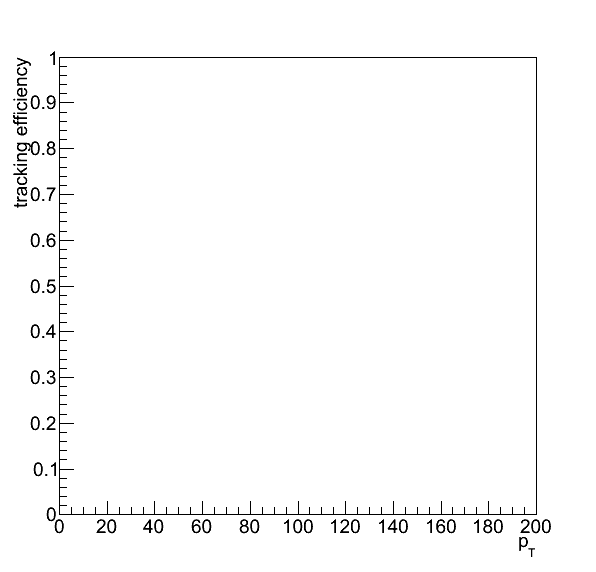
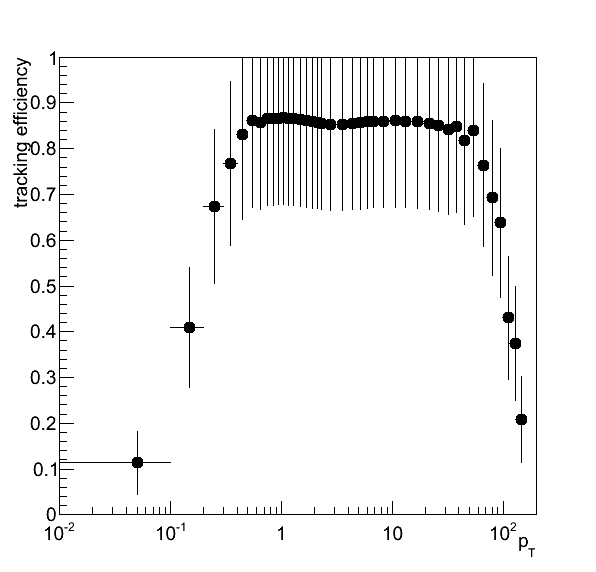
track efficiency

diff --git a/dNchdeta/Correction/calcdNchdeta.C b/dNchdeta/Correction/calcdNchdeta.C
@@ -11,7 +11,7 @@
 #include "SetupTree.h"
 using namespace std;
 THStack* calcNtracks(int);
-THStack* calcwtrack(int);
+TH2F* calcwtrack(int);
 TH1D* calcwevent(int);
 TH1D* calcNevtsel(int);
 void calcdNchdeta(int type=0){ //-1 for genMC, 0 for recoMC, 1 for data
@@ -30,11 +30,7 @@ void calcdNchdeta(int type=0){ //-1 for genMC, 0 for recoMC, 1 for data
 	cout<<"nom = "<<nom[0]<<endl;
 	double fMV = 0.;
 	THStack* SKNtracks = calcNtracks(type);
-	THStack* SKhs = calcwtrack(type);
-        TH2F *hF = (TH2F*)SKhs->GetStack()->At(0);
-        TH2F *hR = (TH2F*)SKhs->GetStack()->At(1);
-        TH2F *heptrack = (TH2F*)SKhs->GetStack()->At(2);
-        TH2F *hwtrack = (TH2F*)SKhs->GetStack()->At(3);
+	TH2F* hwtrack = calcwtrack(type);
 	for(int iMult=0;iMult<nMult;iMult++){
 		TH2F* htemp1 = (TH2F*)SKNtracks->GetStack()->At(iMult);
 		htemp1->Multiply(hwtrack);
@@ -54,9 +50,6 @@ void calcdNchdeta(int type=0){ //-1 for genMC, 0 for recoMC, 1 for data
 	hNtracks->Write();
 	hwevent->Write();
 	nom.Write("nom",TObject::kOverwrite);
-        hF->Write();
-        hR->Write();
-	heptrack->Write();
 	hwtrack->Write();
 	hNevtsel->Write();
 	SKNtracks->Write();
@@ -117,13 +110,14 @@ THStack* calcNtracks(int type){
 	return SKNtracks;
 }
 
-THStack* calcwtrack(int type){
+TH2F* calcwtrack(int type){
 	TH1::SetDefaultSumw2();
 	TString corrname1 = "/home/xuq7/HI/dNchdeta/Correction/trkEff_pp_all_42X_origin.root";
 	TString corrname2 = "/home/xuq7/HI/dNchdeta/Correction/TrackCorrections_HIJING_538_OFFICIAL_Mar24.root";
 	TFile *fcorr1 = TFile::Open(corrname1);
 //	TFile *fcorr2 = TFile::Open(corrname2);
-	THStack* SKhs = new THStack("Stackhs","");
+        TFile *fout = new TFile("trackCorr.root","Recreate");
+        fcorr1->cd();
 	TH2F* rTotalEff3D = (TH2F*)fcorr1->Get("rTotalEff3D");
 	TGraphAsymmErrors* gFakPt = (TGraphAsymmErrors*)fcorr1->Get("gFakPt");
 
@@ -154,11 +148,20 @@ THStack* calcwtrack(int type){
                 hwtrack->SetName("hwtrack");
 		hwtrack->Divide(heptrack);
 	}
-        SKhs->Add(hF);
-        SKhs->Add(hR);
-        SKhs->Add(heptrack);
-        SKhs->Add(hwtrack);
-	return SKhs;
+/*	for(int binx=0;binx<npt;binx++){
+                    for(int biny=0;biny<neta;biny++){
+                        if(binx<10 && biny<10)
+                        cout<<binx<<"\t"<<biny<<"\t"<<hF->GetBinContent(binx,biny)<<"\t"<<hR->GetBinContent(binx,biny)<<"\t"<<heptrack->GetBinContent(binx,biny)<<"\t"<<hwtrack->GetBinContent(binx,biny)<<"\t"<<rTotalEff3D->GetBinContent(binx,biny)<<endl;
+                    }
+        }
+        heptrack->Draw("colz");*/
+        fout->cd();
+        hF->Write();
+        hR->Write();
+        heptrack->Write();
+        hwtrack->Write();
+	return hwtrack;
+        fout->Close();
 
 }
 

diff --git a/dNchdeta/Correction/Drawtrackeff.C b/dNchdeta/Correction/Drawtrackeff.C
@@ -1,12 +1,13 @@
 void Drawtrackeff(){
     gStyle->SetOptStat(kFALSE);
-    TString type="pt";
+    TString type="eta";
     TCanvas *c1 = new TCanvas("c1","c1",600,600);
     TH1D* heff = Draw(type,1,20);
     TH1D* hFrame = new TH1D("","",2030,-3,200);
     hFrame->SetTitle("");
     if(type=="pt"){
-    //    c1->SetLogy();
+        c1->SetLogx();
+   //   c1->SetLogy();
         hFrame->GetXaxis()->SetTitle("p_{T}");
         hFrame->GetXaxis()->SetRangeUser(0,200);
     }
@@ -21,7 +22,7 @@ void Drawtrackeff(){
     leg->SetBorderSize(0);
     leg->SetFillColor(0);
     leg->SetTextSize(0.025);
-    TLine *l = new TLine(c1->GetUxmin(),1,c1->GetUxmax(),1);
+    TLine *l = new TLine(hFrame->GetXaxis()->GetXmin(),1,hFrame->GetXaxis()->GetXmax(),1);
     l->SetLineStyle(2);
     l->SetLineWidth(1.2);
     hFrame->Draw();
@@ -33,12 +34,12 @@ void Drawtrackeff(){
 }
 TH1D* Draw(TString type, int color, int marker){
 
-    TFile *f = new TFile(Form("CorrHijing_recoMC.root"),"ReadOnly");
+    TFile *f = new TFile(Form("trackCorr.root"),"ReadOnly");
     TH2F* heptrack= (TH2F*)f->Get("heptrack");
     if(type=="pt"){
         TH1D* heff = (TH1D*)heptrack->ProjectionX("heff",heptrack->GetYaxis()->FindBin(-2.4),heptrack->GetYaxis()->FindBin(2.4)-1,"i");
-        heff->Draw();
         heff->Scale(1.0/(heptrack->GetYaxis()->FindBin(2.4)-heptrack->GetYaxis()->FindBin(-2.4)));
+        heff->Draw();
         cout<<(heptrack->GetYaxis()->FindBin(2.4)-heptrack->GetYaxis()->FindBin(-2.4))<<endl;
     }
     else if(type=="eta"){
@@ -49,7 +50,7 @@ TH1D* Draw(TString type, int color, int marker){
     heff->SetMarkerColor(color);
     heff->SetLineColor(color);
     heff->SetMarkerSize(1.5);
-    f->Close();
+  //  f->Close();
     return heff;
 }
 
